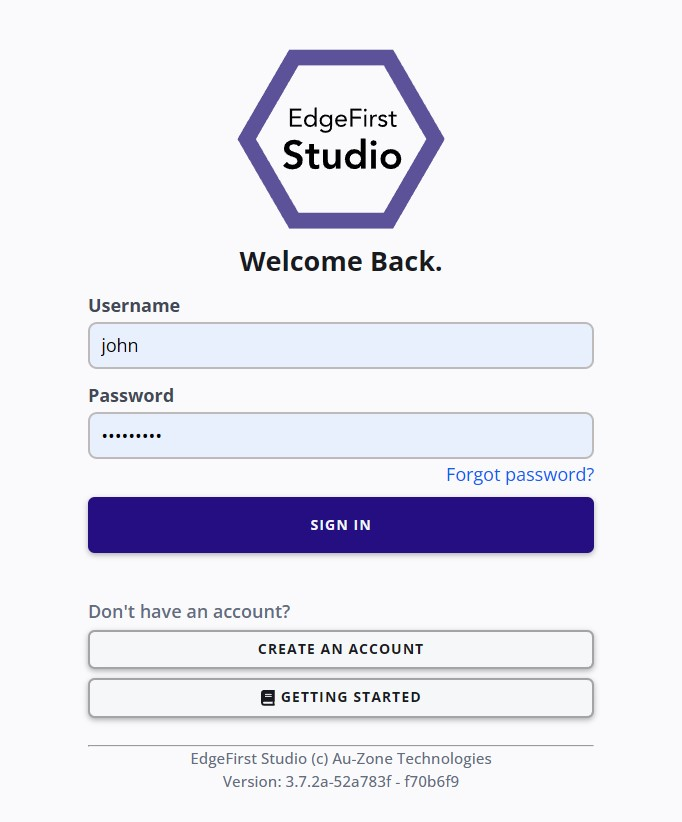
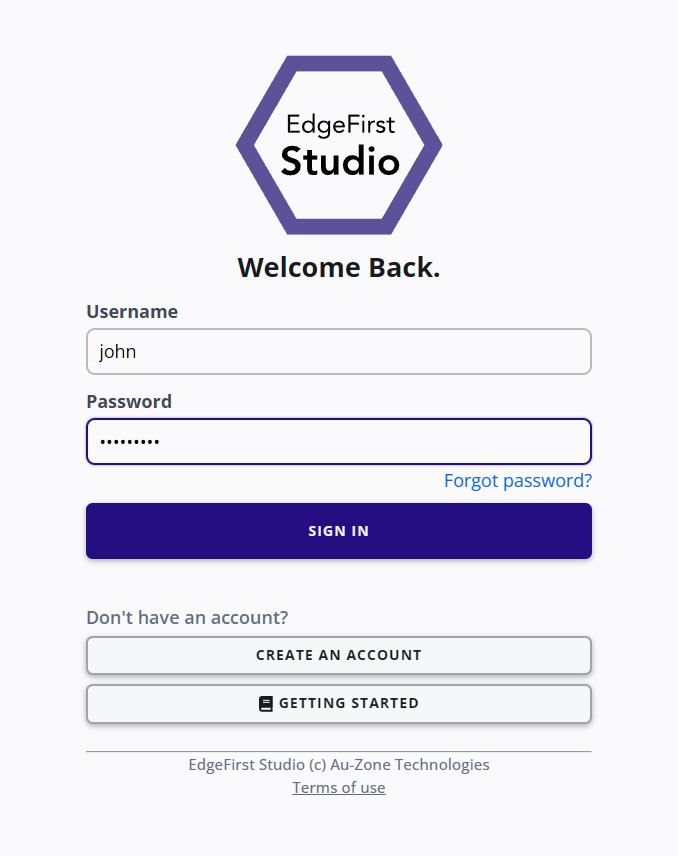
[DE-2167]: Split the user onboarding into Next and Pevious pages and also added the splash pages upon login.

diff --git a/docs/models/modelpack/training.md b/docs/models/modelpack/training.md
@@ -8,7 +8,7 @@ First ensure that the dataset is ready to be used for training.  This means that
 
 ## Specify Project Experiments
 
-From the projects page, choose the project that contains the dataset you plan to use.  In this example, the project chosen is the "Object Detection" project which was created in the [Quickstart Guide](../../index.md#create-project).  Next click the "Model Experiments" button as indicated in red.
+From the projects page, choose the project that contains the dataset you plan to use.  In this example, the project chosen is the "Object Detection" project which was created in the [Quickstart Guide](../../getting_started/create_project.md).  Next click the "Model Experiments" button as indicated in red.
 
 <figure markdown="span">
 ![Model Experiments](../assets/training/vision-model-experiments.jpg){ align=center }
@@ -68,7 +68,7 @@ Start a training session by clicking on the "New Session" button on the top righ
 <figcaption>New Session Button</figcaption>
 </figure>
 
-You will be greeted with a training session dialog.  In this dialog, specify the "Trainer Type" to "ModelPack" and provide a name and description of the training session as shown below.  Next specify the dataset to be used with training and validation partitions.  In this example, the dataset specified is the "Coffee Cup" dataset which was created in the [Getting Started](../../index.md).  Next specify the training parameters.  By default, an object detection (bounding boxes) model will be trained.  However, you can specify either "Segmentation" or "Multitask" as shown below.  This model will output both bounding boxes and segmentation masks.  Additional information on these parameters are provided by hovering over the info button ![Info Button](../../assets/buttons/studio-info-button.jpg).
+You will be greeted with a training session dialog.  In this dialog, specify the "Trainer Type" to "ModelPack" and provide a name and description of the training session as shown below.  Next specify the dataset to be used with training and validation partitions.  In this example, the dataset specified is the "Coffee Cup" dataset which was created in the [Getting Started](../../getting_started/capture_data.md).  Next specify the training parameters.  By default, an object detection (bounding boxes) model will be trained.  However, you can specify either "Segmentation" or "Multitask" as shown below.  This model will output both bounding boxes and segmentation masks.  Additional information on these parameters are provided by hovering over the info button ![Info Button](../../assets/buttons/studio-info-button.jpg).
 
 !!! tip "Input Resolution"
     We recommend changing the input resolution to 640x360 to maximize detection rates on small datasets.

diff --git a/docs/index.md b/docs/index.md
@@ -2,44 +2,12 @@
 
 Welcome to EdgeFirst Studio!  Follow this Quickstart for user onboarding from start to finish.
 
-=== "Sign Up"
-
-    {% include-markdown "discrete/user/signup.md" heading-offset=2 %}
-
-    <div class="wizard-actions" markdown>
-    [Next → Login](#login){ .md-button .md-button--primary }
-    </div>
-
-=== "Login"
-
-    {% include-markdown "discrete/user/login.md" heading-offset=2 %}
-
-    <div class="wizard-actions" markdown>
-    [← Back](#select-framework){ .md-button }
-    [Next → Create Project](#create-project){ .md-button .md-button--primary }
-    </div>
-
-=== "Create Project"
-
-    {% include-markdown "discrete/studio/create_project.md" heading-offset=2 %}
-
-    <div class="wizard-actions" markdown>
-    [← Back](#select-framework){ .md-button }
-    </div>
-
-The next sections will invite you to follow along the end-to-end workflow for recording a video or capturing images using a phone and then upload the captured data into EdgeFirst Studio for annotation and then model training, validation, and deployment on various platforms. 
-
-!!! info "Workflows"
-    The workflow below is based on the *Web-Based Workflow* which requires only a phone and a PC.  There are other [workflows](getting_started/workflows/index.md) that support different hardware requirements. 
-
-{% include-markdown "discrete/workflows/web.md" %}
-
-In this Quickstart guide, you have created your EdgeFirst Studio Account, logged in to EdgeFirst Studio, and created your very first project and ran your first experiment by capturing images and videos, annotating datasets, training a Vision model, validating the trained model, and deploying the model back into the PC, EdgeFirst Platform, or the i.MX 8M Plus EVK. 
-
-## Next Steps
-
-For these next steps, it is recommended to be familiar in [navigating EdgeFirst Studio](studio/navigation.md).  Next, users are invited to follow along other various [User Workflows](getting_started/workflows/index.md) that are tailored towards various hardware requirements and resources available to the user.
+{% include-markdown "discrete/user/signup.md" heading-offset=0 %}
 
 !!! tip "Need Help?"
     📬 Have questions or ran into an issue?  
     Feel free to [email our support team](mailto:support@edgefirst.ai) — we’re here to help!
+
+<div style="max-width: fit-content; margin-left: auto; margin-right: auto;" markdown="1">
+[Next → Login](getting_started/login.md){ .md-button .md-button--primary .align-right }
+</div>

diff --git a/docs/getting_started/capture_data.md b/docs/getting_started/capture_data.md
@@ -1,0 +1,29 @@
+# Capture with a Phone
+
+The examples below will show recording of a five second video and image captures of coffee cups using a phone for training a Vision model that detects coffee cups. However, you can choose any type of objects in your dataset.
+
+{% include-markdown "discrete/datasets/recording_on_phone.md" heading-offset=2 %}
+{% include-markdown "discrete/datasets/create_dataset_container.md" heading-offset=0 %}
+{% include-markdown "discrete/datasets/uploading_video_to_studio.md" heading-offset=0 %}
+{% include-markdown "discrete/datasets/uploading_images_to_studio.md" heading-offset=0 %}
+
+Next [view the gallery of the dataset](../datasets/tutorials/management.md#view-dataset) to confirm all the captured data has been uploaded.  You should see the imported video file and images in the gallery.  Note that videos appear as sequences with a play button overlay on the preview thumbnail.
+
+<figure markdown="span">
+![Coffee Cup Gallery](../getting_started/assets/workflows/pc-dataset-gallery.jpg){ align=center }
+<figcaption>Coffee Cup Gallery</figcaption>
+</figure>
+
+Once all the captured data has been uploaded to the dataset container, you will now assign groups to the data to split the data into training and validation sets.  Follow the [tutorial for creating groups](../datasets/tutorials/management.md#split-dataset) with an 80% partition to training and 20% partition to validation.  The final outcome for the groups should look as follows.
+
+<figure markdown="span">
+![Dataset Groups](../getting_started/assets/workflows/dataset-groups.jpg){ align=center }
+<figcaption>Dataset Groups</figcaption>
+</figure>
+
+Now that you have imported captured images or videos into EdgeFirst Studio and have split the captured data into training and validation partitions, you can now start annotating your data as shown in the next section below.
+
+<div style="max-width: fit-content; margin-left: auto; margin-right: auto;" markdown="1">
+[Create Project ← Back](create_project.md){ .md-button }
+[Next → Annotate Dataset](annotate_dataset.md){ .md-button .md-button--primary .align-right }
+</div>

diff --git a/docs/studio/user/index.md b/docs/studio/user/index.md
@@ -6,7 +6,7 @@ You can see your [profile information](profile.md#profile-information) and [make
 
 When you first sign up to EdgeFirst Studio, you will also automatically create your own organization.  You can find more information for [managing your organization](organization.md).  For multi-tier users, follow the [workflow below](#inviting-new-users) for inviting new users to your organization. 
 
-A trial user (Individual Tier) is given 20.00 USD worth of credits to experience the features in EdgeFirst Studio as shown in the [Quickstart Guide](../../index.md).  Note that for multi-user tiers, the credits in the organization will be shared amongst the members.  You can find more information on the [billing details](billing.md).
+A trial user (Individual Tier) is given 20.00 USD worth of credits to experience the features in EdgeFirst Studio.  Note that for multi-user tiers, the credits in the organization will be shared amongst the members.  You can find more information on the [billing details](billing.md).
 
 ## Inviting New Users
 

diff --git a/docs/models/modelpack/deployment/pc.md b/docs/models/modelpack/deployment/pc.md
@@ -61,7 +61,7 @@ client.projects_sync() # This will list all the projects available to the user
 Project { id: 1123, name: "Sample Project", description: "Official Datasets from AuZone Technologies Inc" }]
 ```
 
-By following the [EdgeFirst Studio Quickstart](../../../index.md#create-project), you should have created a project.  In this example, the project that was created is called "Object Detection".  Make a note of your project ID.  In this case, it is `463`.  Adjust the code block below to replace with your project ID.
+By following the [EdgeFirst Studio Quickstart](../../../getting_started/create_project.md), you should have created a project.  In this example, the project that was created is called "Object Detection".  Make a note of your project ID.  In this case, it is `463`.  Adjust the code block below to replace with your project ID.
 
 ```python
 # Retrieve the project ID where the dataset is stored (all experiments/training/validation sessions are stored in the same project)

diff --git a/docs/studio/user/billing.md b/docs/studio/user/billing.md
@@ -1,6 +1,6 @@
 # Billing Information
 
-This page will describe the billing information that is subjected to the user's organization.  Prior to reading the contents in this page, it is recommended to be familiar with the [Organization Management](organization.md).  A trial user (Individual Tier) is given 20.00 USD worth of credits to experience the features in EdgeFirst Studio as shown in the [Quickstart Guide](../../index.md).  However, for multi-user tiers, the credits in the organization will be shared amongst the members.  
+This page will describe the billing information that is subjected to the user's organization.  Prior to reading the contents in this page, it is recommended to be familiar with the [Organization Management](organization.md).  A trial user (Individual Tier) is given 20.00 USD worth of credits to experience the features in EdgeFirst Studio.  However, for multi-user tiers, the credits in the organization will be shared amongst the members.  
 
 ## Usage & Billing
 

diff --git a/docs/getting_started/deploy_model.md b/docs/getting_started/deploy_model.md
@@ -1,0 +1,11 @@
+{% include-markdown "discrete/models/deploy_model.md" heading-offset=0 %}
+
+In this Quickstart guide, you have created your EdgeFirst Studio Account, logged in to EdgeFirst Studio, and created your very first project and ran your first experiment by capturing images and videos, annotating datasets, training a Vision model, validating the trained model, and deploying the model back into the PC, EdgeFirst Platform, or the i.MX 8M Plus EVK. 
+
+## Next Steps
+
+For these next steps, it is recommended to be familiar in [navigating EdgeFirst Studio](../studio/navigation.md).  Next, users are invited to follow along other various [User Workflows](workflows/index.md) that are tailored towards various hardware requirements and resources available to the user.
+
+<div style="max-width: fit-content; margin-left: auto; margin-right: auto;" markdown="1">
+[Validate Vision Model ← Back](validate_vision.md){ .md-button }
+</div>

diff --git a/docs/discrete/studio/create_mpk_validation_session.md b/docs/discrete/studio/create_mpk_validation_session.md
@@ -1,6 +1,6 @@
 # Specify Project Experiments
 
-From the projects page, choose the project that contains the training session with the models you want to validate.  In this example, the project chosen is the "Object Detection" project that was created in the [Getting Started](../../index.md#create-project).  Next click the "Model Experiments" button as indicated in red.
+From the projects page, choose the project that contains the training session with the models you want to validate.  In this example, the project chosen is the "Object Detection" project that was created in the [Getting Started](../../getting_started/create_project.md).  Next click the "Model Experiments" button as indicated in red.
 
 <figure markdown="span">
 ![Model Experiments](../../models/assets/training/vision-model-experiments.jpg){ align=center }

diff --git a/docs/getting_started/create_project.md b/docs/getting_started/create_project.md
@@ -1,0 +1,11 @@
+{% include-markdown "discrete/studio/create_project.md" %}
+
+The next sections will invite you to follow along the end-to-end workflow for recording a video or capturing images using a phone and then upload the captured data into EdgeFirst Studio for annotation and then model training, validation, and deployment on various platforms. 
+
+!!! info "Workflows"
+    The workflow below is based on the *Web-Based Workflow* which requires only a phone and a PC.  There are other [workflows](workflows/index.md) that support different hardware requirements. 
+
+<div style="max-width: fit-content; margin-left: auto; margin-right: auto;" markdown="1">
+[Login ← Back](login.md){ .md-button }
+[Next → Capture Data](capture_data.md){ .md-button .md-button--primary .align-right }
+</div>

diff --git a/docs/discrete/datasets/uploading_images_to_studio.md b/docs/discrete/datasets/uploading_images_to_studio.md
@@ -1,5 +1,8 @@
 # Upload Images
 
+!!! warning "HEIC is not fully supported"
+    Recent Apple devices are seen to capture HEIC image formats by default.  This format has not been fully supported yet in EdgeFirst Studio.  Please make sure to use JPEGs, JPGs, or PNGs for uploading images to EdgeFirst Studio. 
+
 Image files can be uploaded into any dataset container in EdgeFirst Studio.  Choose the dataset container to upload image files.  In this case, the dataset is called "Coffee Cup".  Click on the dataset context menu (three dots) and select import.
 
 <figure markdown="span">

diff --git a/docs/discrete/user/login.md b/docs/discrete/user/login.md
@@ -7,9 +7,9 @@
     <figcaption>Login Page</figcaption>
     </figure>
 
-2. Once logged in to EdgeFirst Studio, you will be greeted with the following [Projects](../../studio/projects.md) page.
+2. Once logged in to EdgeFirst Studio, you will be greeted with the following splash page.
 
     <figure markdown="span">
-    ![Starting Page](../../studio/assets/projects/studio-from-scratch.jpg){ align=center }
+    ![Starting Page](../../studio/assets/user/splash-page.jpg){ align=center }
     <figcaption>Projects Splash Page</figcaption>
     </figure>

diff --git a/docs/studio/projects.md b/docs/studio/projects.md
@@ -5,7 +5,7 @@
 <figcaption>Projects Splash Page</figcaption>
 </figure>
 
-The "Projects" page is the main page of the portal which organizes data into logical project partitions.  When you first login, you will be directed to this page which already contains a sample project called "Sample Project".
+The "Projects" page organizes data into logical project partitions.  When you first login, this page will already contain a sample project called "Sample Project".
 
 To return to this splash page from any other page, you can:
 
